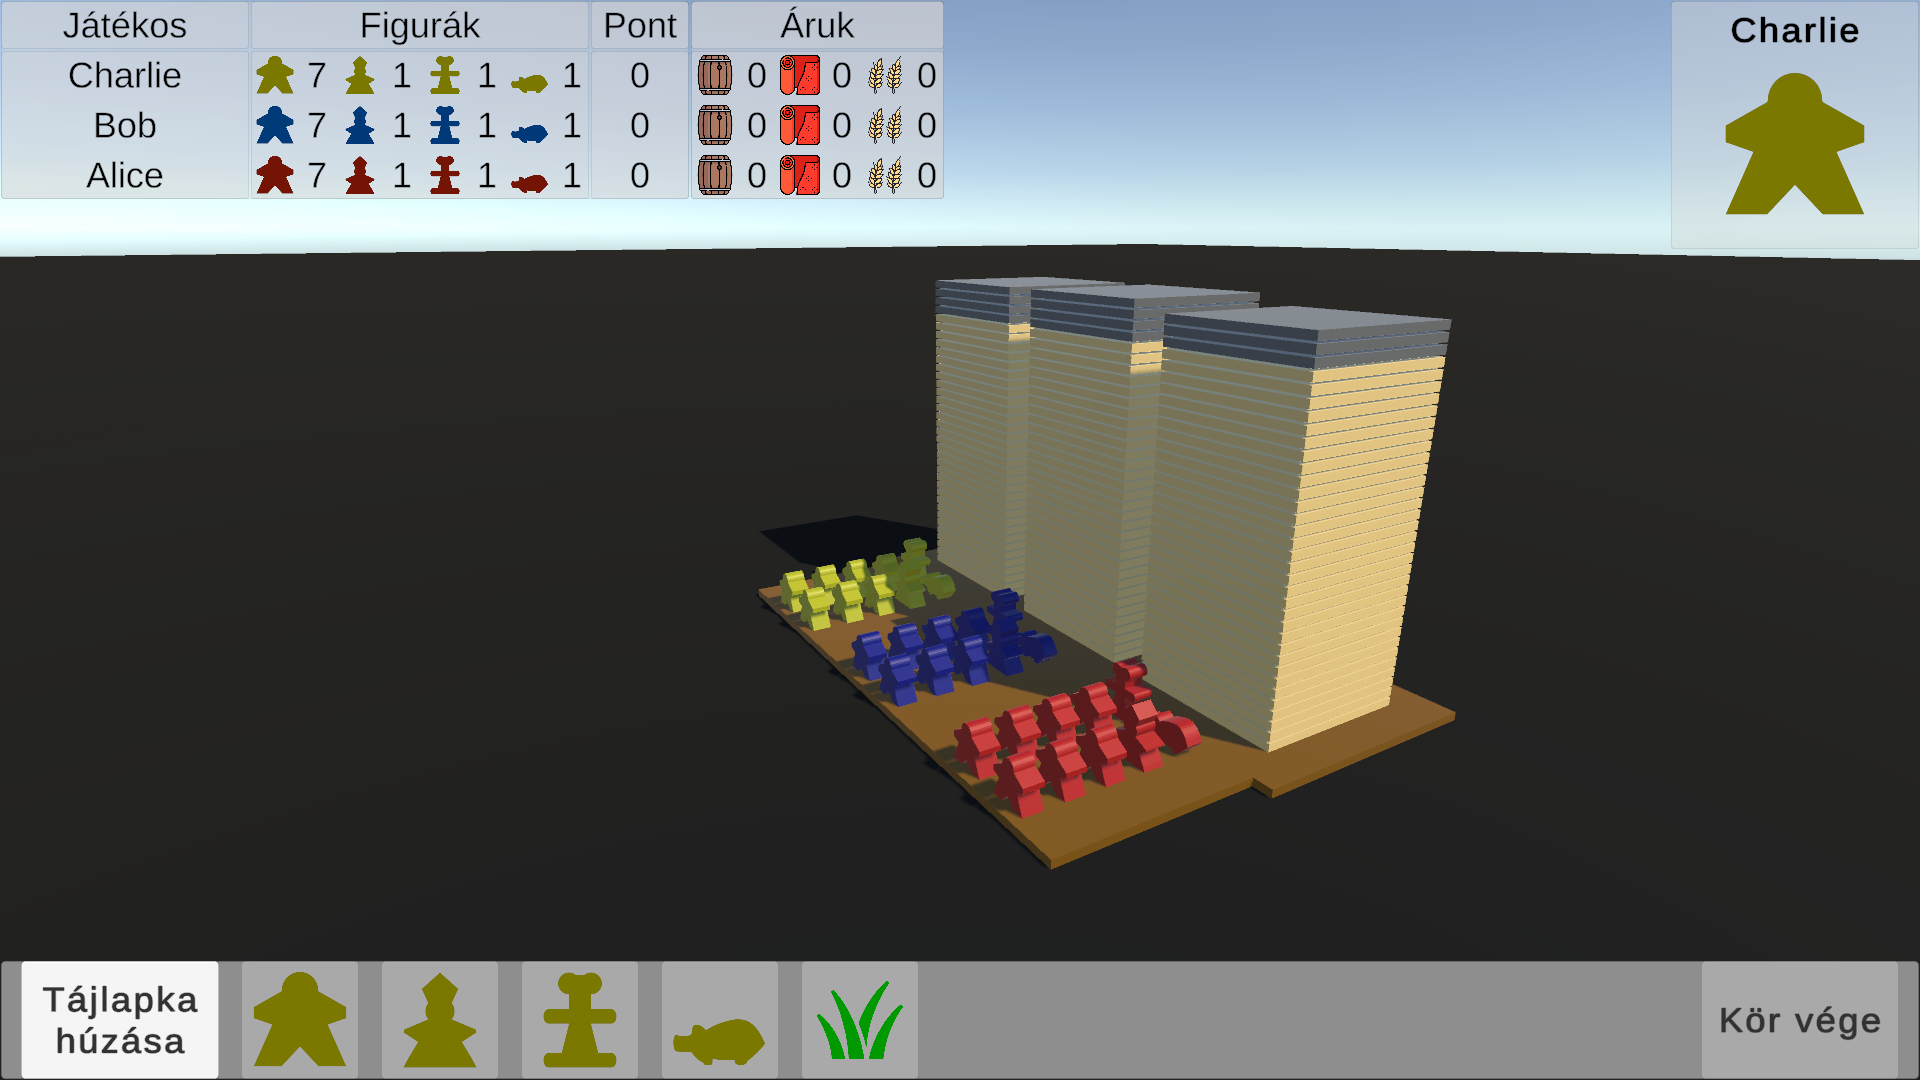
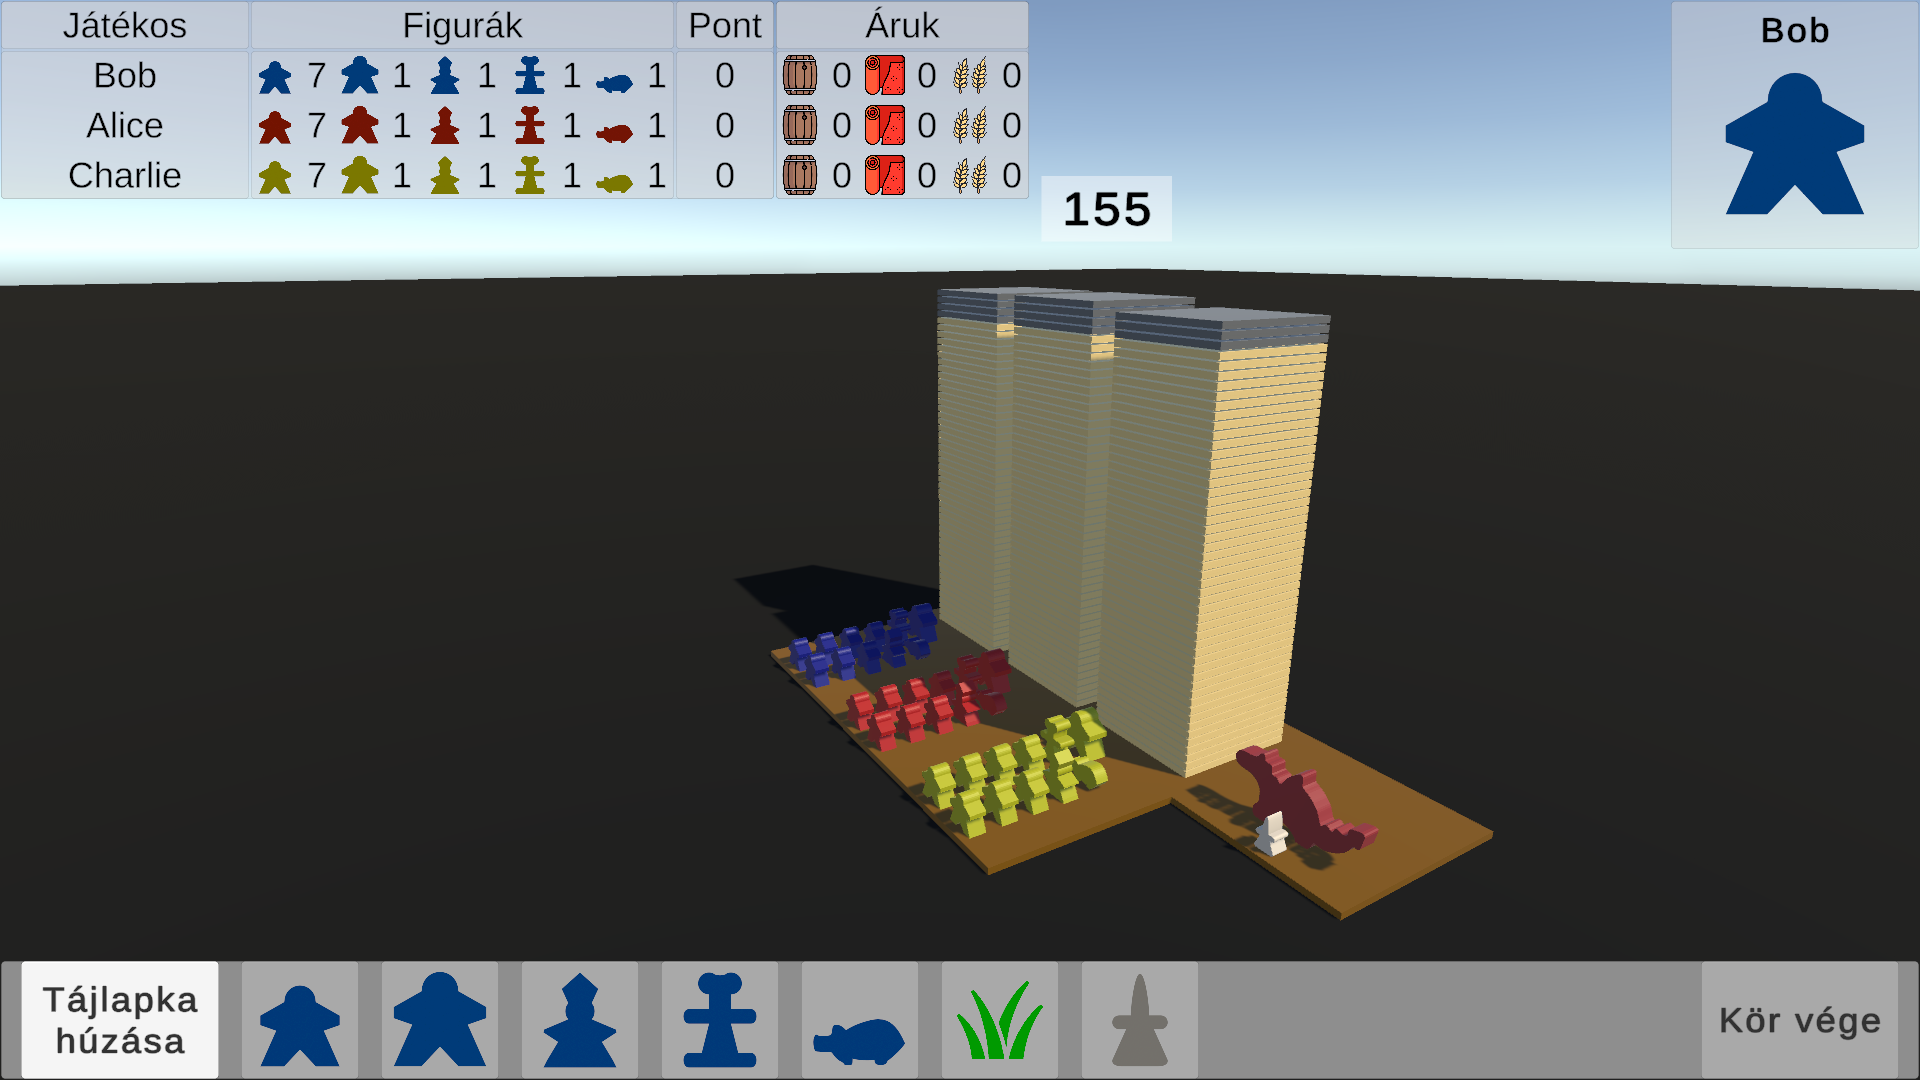
feat: update board game page

diff --git a/pages/board_game.md b/pages/board_game.md
@@ -37,7 +37,9 @@ Currently, the game supports only the **Hungarian language**.
 - **Expansions**:
   - **The River**
   - **The Abbot**
+  - **Inns and Cathedrals**
   - **Traders and Builders**
+  - **The Princess and the Dragon**
 
 ---
 
